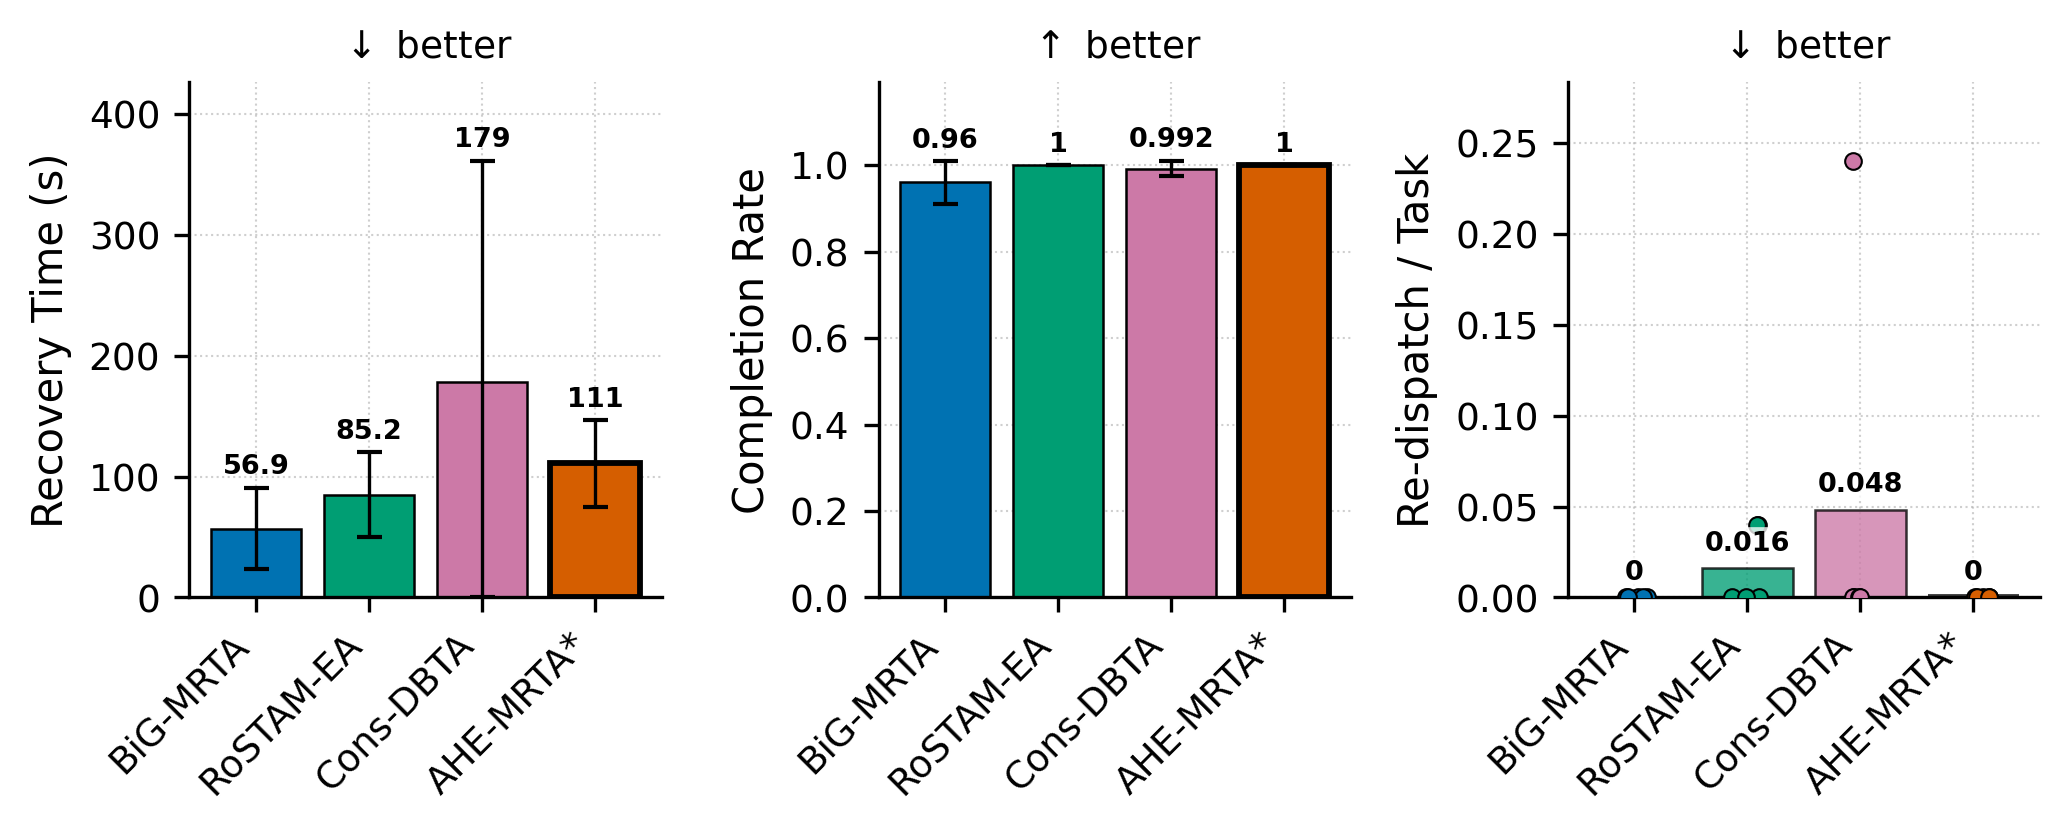
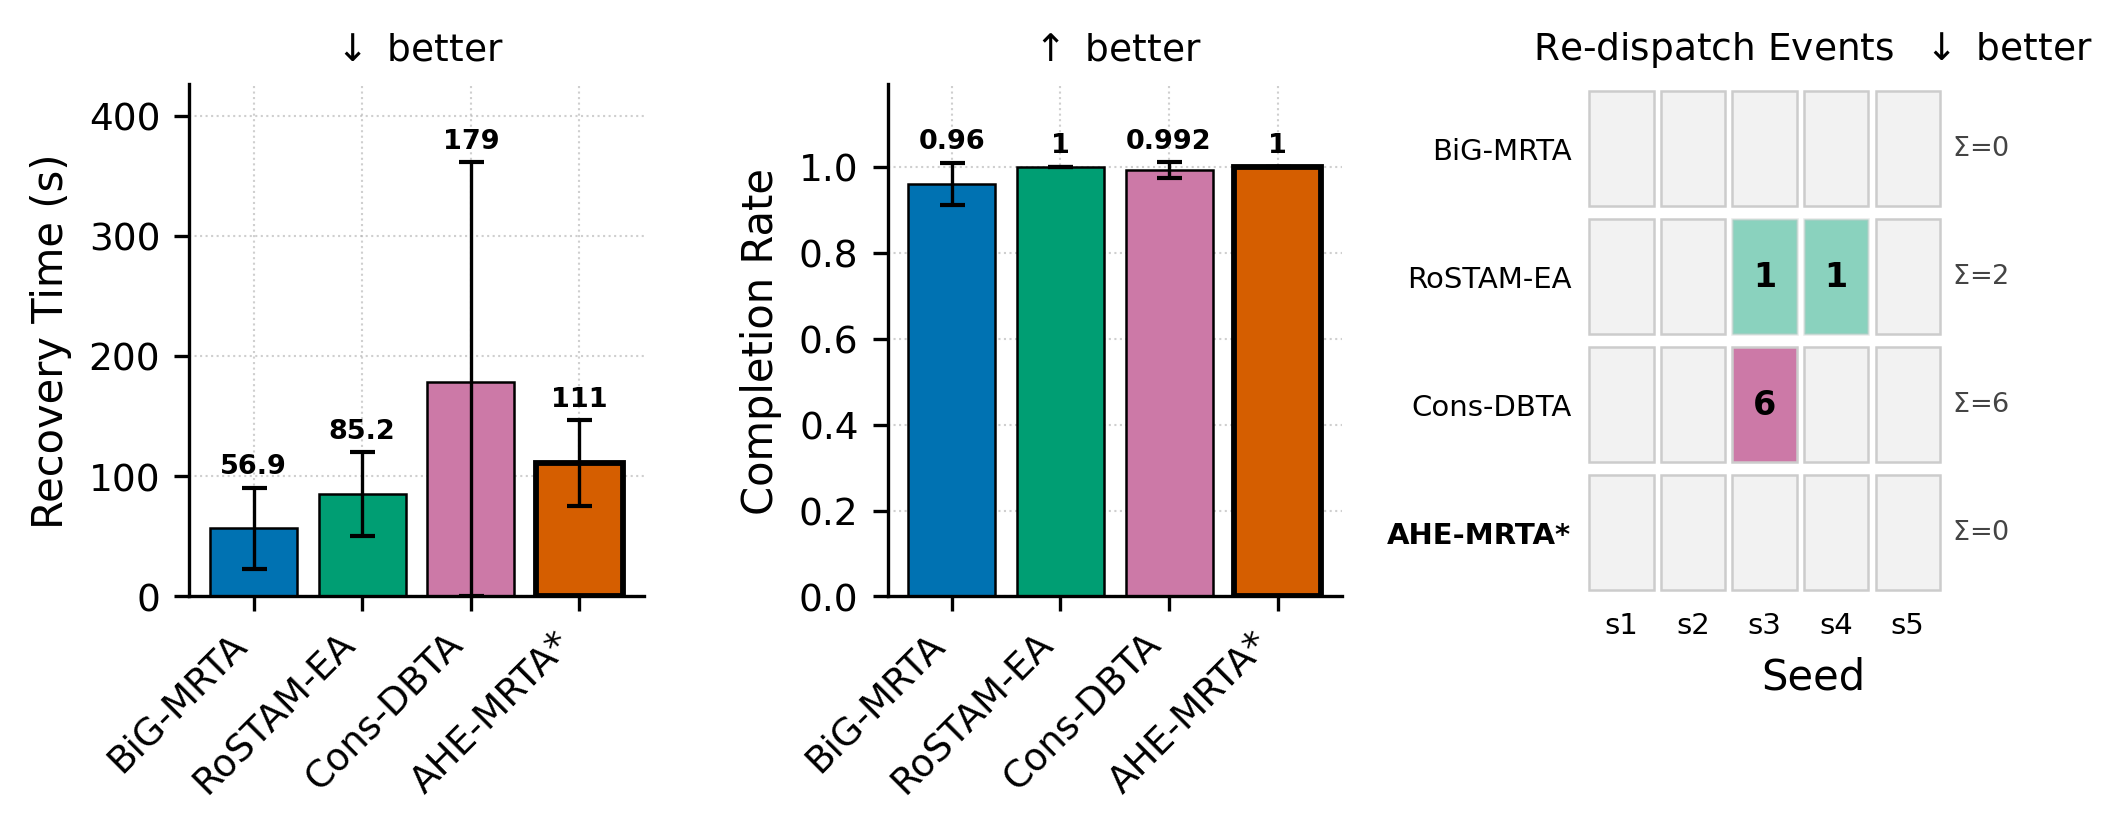
Paper: Fig 10c as seed x method re-dispatch event matrix (EN+TR)
Final encoding, chosen from a rendered D/E/F comparison: each cell is
one run, zero-event runs stay light gray, nonzero runs are filled in
the method colour and annotated with the integer count, and Sigma gives
the row total. The matrix attributes every event to the seed that
produced it - RoSTAM-EA's two events sit in s3/s4 and all six
Consensus-DBTA events in s3 - which is the information any aggregate
encoding of this panel had to carry in annotations. _bar_points_panel
becomes _event_matrix_panel; captions rewritten in both languages;
PDFs recompiled clean (EN 22 pp, TR 23 pp).

diff --git a/paper/main.tex b/paper/main.tex
@@ -205,53 +205,67 @@ in-flight safety lock used in the execution stack. Failed or navigation-stuck
 robots cannot receive a new task; their unfinished tasks become eligible for
 redispatch.
 
-\textbf{Arrival prediction and admissibility.} For an eligible pair
+\textbf{Arrival prediction and admissibility.} For a candidate pair
 $(r,\tau)$, let $\hat a_{r\tau}^k$ be the predicted completion-arrival time
 obtained by traversing $q_r^k$ and then travelling to $p_\tau$. The predictor
 uses the same route metric as the active configuration: F45 uses its core
 distance estimate, while F58 uses the cached geodesic ETA in
 Eq.~\eqref{eq:f58-eta}. A pair with no route is infeasible. For a finite
-deadline, the hard admission gate is
+deadline, the admission rule is
 \begin{equation}
-  \hat a_{r\tau}^k>d_\tau+\Delta_s^k
+  \hat a_{r\tau}^k>d_\tau+s_{r\tau}^k
   \quad\Longrightarrow\quad (r,\tau)\notin\mathcal{F}_k ,
   \label{eq:admission-gate}
 \end{equation}
-where $\Delta_s^k$ is the adaptive slack and $\mathcal{F}_k$ is the set of
-eligible robot--task pairs. Thus, a task is not assigned to a robot that is
-known to be incompatible, unavailable, unreachable, or predictably late beyond
-the permitted slack.
+where $\mathcal{F}_k$ is the eligible-pair set. The pair-specific allowance
+$s_{r\tau}^k$ is zero for new tasks in the nominal configuration. A bounded
+positive allowance is available only to old rescue tasks and can be widened
+in failure mode. Thus, the allocator rejects a pair that is incompatible,
+unavailable, unreachable, or later than the allowance for that task state.
 
-\textbf{Event-level surrogate.} AHE-MRTA does not claim to solve a global
-multi-objective MRTA optimum. At event $t_k$, the selected paradigm instead
-solves the feasibility-masked surrogate
+\textbf{Event-level surrogate.} Minimizing non-negative cost over
+$\mathcal X_k$ alone would admit the trivial all-zero assignment because the
+ownership constraints are upper bounds. The implementation therefore uses a
+cardinality-first rule. After masking infeasible pairs and preserving locked
+incumbents, define
 \begin{equation}
-  x^k\in\arg\min_{x\in\mathcal{X}_k}
+  \mathcal X_k^\star=\arg\max_{x\in\mathcal X_k}
+  \sum_{r\in\mathcal R}\sum_{\tau\in\mathcal T_k}x_{r\tau}^k.
+  \label{eq:max-cardinality}
+\end{equation}
+Among these maximum-cardinality event plans, the selected paradigm minimizes
+its shaped cost:
+\begin{equation}
+  x^k\in\arg\min_{x\in\mathcal{X}_k^\star}
         \sum_{r\in\mathcal{R}}\sum_{\tau\in\mathcal{T}_k}
         C_{r\tau}^k x_{r\tau}^k ,
   \qquad C_{r\tau}^k=\infty\ \text{if }(r,\tau)\notin\mathcal{F}_k .
   \label{eq:event-surrogate}
 \end{equation}
-The queue order is then set by the active paradigm (Section~\ref{sec:paradigms}).
-This formulation makes the decision rule explicit: it is an online,
-event-level assignment surrogate, not an offline guarantee on the full run.
+Repeated LSA passes implement this lexicographic rule; tasks for which no
+feasible capacity remains stay open for a later event. The active paradigm
+then sets queue order (Section~\ref{sec:paradigms}). This is an online
+event-level surrogate, not an offline optimum for the complete mission.
 
-\textbf{Cost and assignment stability.} For feasible pairs, the cost combines
-estimated arrival time, urgency, priority, queue load, failure risk, navigation state,
-and a non-negative reassignment penalty:
+\textbf{Cost and assignment stability.} The implementation evaluates seven
+normalized features: arrival time $A_{r\tau}^k$, priority penalty
+$P_\tau=(4-\pi_\tau)/3$, battery risk $B_r^k$, relative load $L_r^k$,
+failure risk $F_r^k$, deadline urgency $U_\tau^k$, and navigation/recovery
+risk $R_r^k$. For a feasible pair, the common cost is
 \begin{equation}
   C_{r\tau}^k =
-  w_d\hat a_{r\tau}^k + w_u U_\tau^k + w_\pi\pi_\tau^{-1}
-  + w_lL_r^k+w_fF_r^k+w_rR_r^k+\rho_{r\tau}^k .
+  w_dA_{r\tau}^k+w_pP_\tau+w_bB_r^k+w_lL_r^k
+  +w_fF_r^k+w_tU_\tau^k+w_rR_r^k+\Psi_{r\tau}^k .
   \label{eq:cost}
 \end{equation}
-Here $U_\tau^k$ is urgency, $L_r^k$ is relative queue load, $F_r^k$ is the
-method's normalized failure-risk signal, and $R_r^k$ is the navigation-stuck indicator.
-The active EDPS paradigm selects $w$ (Section~\ref{sec:method}). For a
-feasibly queued incumbent task, urgency stays at its base value. Therefore,
-deadline growth pulls unassigned or at-risk tasks forward without repeatedly
-moving a task that is already predicted to finish on time. The penalty
-$\rho_{r\tau}^k$ provides an additional brake on redispatch churn.
+Here $A_{r\tau}^k=\min(1,\hat a_{r\tau}^k/A_{\max})$ and the other base
+features are dimensionless. The correction $\Psi_{r\tau}^k$ collects the
+deadline and critical-battery penalties, deadline-capability and bid bonuses,
+incumbent sticky bonus, reassignment penalty, and capacity penalty. This form
+avoids adding seconds directly to normalized features. EDPS supplies $w$;
+the active paradigm can also shape task order and eligibility. A safe
+incumbent retains base urgency, whereas an unassigned or at-risk task receives
+nonlinear urgency growth.
 
 \textbf{Run-level outcomes and timing contract.} The run-level objective is
 to maximize completion and minimize deadline violations without hiding
@@ -262,7 +276,8 @@ be the tasks completed by $T_{\max}$. Formally,
   \frac{|\mathcal{T}^{\rm done}|}{|\mathcal{T}^{\rm req}|},
   \qquad
   \min\ \mathrm{DVR}=
-  \frac{|\{\tau:d_\tau<\infty\ \wedge+  (t_\tau^{\rm c}>d_\tau\ \vee\ \tau\notin\mathcal{T}^{\rm done})\}|}
+  \frac{|\{\tau:d_\tau<\infty\ \wedge
+  (t_\tau^{\rm c}>d_\tau\ \vee\ \tau\notin\mathcal{T}^{\rm done})\}|}
   {\max\!\bigl(1,|\{\tau:d_\tau<\infty\}|\bigr)}.
   \label{eq:primary-outcomes}
 \end{equation}
@@ -1235,16 +1250,17 @@ scales.
   \caption{Failure-recovery behaviour under \textit{robot\_failure} at
   the primary 5-robot / 25-task scale ($n{=}5$ seeds): recovery time and
   completion rate (mean\,$\pm$\,std bars, whiskers clipped at zero) and
-  re-dispatch rate as a mean bar overlaid with each seed's raw value.
-  In the right panel the per-seed points replace the std whisker: 17 of
-  the 20 runs have exactly zero re-dispatches, and all six
-  Consensus-DBTA events fall in a single seed (execution preemptions
-  are zero for every method and are omitted). Recovery times are
-  statistically indistinguishable across methods ($p{>}0.3$);
-  re-dispatches arise only in two baselines, and AHE-MRTA converts its
-  comparable recovery time into the highest completion rate of the
-  reactive methods by escalating to the orphan-rescue paradigm within
-  one ecosystem update cycle (${\leq}2$~s).}
+  a seed$\times$method matrix of re-dispatch events, in which each cell
+  is one run, filled cells carry the event count, and $\Sigma$ gives the
+  row total. The matrix attributes every event to the seed that produced
+  it: 17 of the 20 runs have zero re-dispatches, RoSTAM-EA's two events
+  come from two different seeds, and all six Consensus-DBTA events fall
+  in a single seed (execution preemptions are zero for every method and
+  are omitted). Recovery times are statistically indistinguishable
+  across methods ($p{>}0.3$); AHE-MRTA converts its comparable recovery
+  time into the highest completion rate of the reactive methods by
+  escalating to the orphan-rescue paradigm within one ecosystem update
+  cycle (${\leq}2$~s).}
   \label{fig:recovery}
 \end{figure}
 

diff --git a/scripts/plot_results.py b/scripts/plot_results.py
@@ -171,44 +171,52 @@ def _bar_panel(ax, df, methods, metric, ylabel, higher_better: bool = True,
     return bars
 
 
-def _bar_points_panel(ax, df, methods, metric, ylabel,
-                      higher_better: bool = False):
-    """Mean bar overlaid with every run's raw value; proposed emphasised.
+def _event_matrix_panel(ax, df, methods, metric,
+                        higher_better: bool = False):
+    """Seed×method event matrix for rare discrete events.
 
-    Used where a std whisker would mislead (most runs exactly zero, a
-    single seed carrying the whole mean, ±std dipping below a
-    nonnegative metric's floor): the overlaid per-seed points show the
-    spread directly while keeping the bar aesthetic of the sibling
-    panels.
+    Each cell is one run: zero-event runs stay light gray, nonzero runs
+    are filled in the method colour (intensity scaled by count) and
+    annotated with the integer count; Σ gives the row total. This
+    attributes every event to the seed that produced it---exactly the
+    information a mean±std bar destroys when a single seed carries the
+    whole mean.
     """
     valid = [m for m in methods if m in df["strategy"].unique()]
-    colors = [METHOD_PALETTE.get(m, "#999999") for m in valid]
-    data = [df[df["strategy"] == m][metric].dropna().values for m in valid]
-    means = [float(np.mean(v)) if len(v) else 0.0 for v in data]
-
-    x = np.arange(len(valid))
-    edge_w = [1.4 if m == PROPOSED else 0.6 for m in valid]
-    bars = ax.bar(x, means, color=colors, edgecolor="black", alpha=0.78)
-    for b, w in zip(bars, edge_w):
-        b.set_linewidth(w)
-    rng = np.random.default_rng(7)
-    for i, (vals, c) in enumerate(zip(data, colors)):
-        jitter = rng.uniform(-0.14, 0.14, size=len(vals))
-        ax.scatter(i + jitter, vals, s=16, color=c, edgecolor="black",
-                   linewidth=0.5, zorder=3)
-    for i, mn in enumerate(means):
-        ax.annotate(f"{mn:.3g}", xy=(i, mn), xytext=(0, 3),
-                    textcoords="offset points", ha="center", va="bottom",
-                    fontsize=6.5, fontweight="bold", zorder=5,
-                    bbox=dict(boxstyle="round,pad=0.1", fc="white",
-                              ec="none", alpha=0.78))
-    ax.margins(y=0.18)
-    ax.set_xticks(x)
-    ax.set_xticklabels([METHOD_LABELS.get(m, m) for m in valid],
-                       rotation=45, ha="right")
-    ax.set_ylabel(ylabel)
+    seeds = sorted(df["seed"].unique())
+    max_c = max(1, int(df[metric].max()))
+    for yi, m in enumerate(valid):
+        sub = df[df["strategy"] == m]
+        for xi, s in enumerate(seeds):
+            vals = sub.loc[sub["seed"] == s, metric]
+            c = int(vals.iloc[0]) if len(vals) else 0
+            face = "#f2f2f2" if c == 0 else METHOD_PALETTE.get(m, "#999999")
+            alpha = 1.0 if c == 0 else 0.35 + 0.65 * c / max_c
+            ax.add_patch(plt.Rectangle((xi + 0.05, yi + 0.05), 0.9, 0.9,
+                                       facecolor=face, alpha=alpha,
+                                       edgecolor="#cccccc", linewidth=0.6))
+            if c:
+                ax.text(xi + 0.5, yi + 0.5, str(c), ha="center",
+                        va="center", fontsize=8, fontweight="bold")
+        tot = int(sub[metric].sum())
+        ax.text(len(seeds) + 0.12, yi + 0.5, f"$\\Sigma$={tot}",
+                ha="left", va="center", fontsize=6.5, color="#444444")
+    ax.set_xlim(0, len(seeds) + 1.35)
+    ax.set_ylim(len(valid), 0)
+    ax.set_xticks([i + 0.5 for i in range(len(seeds))])
+    ax.set_xticklabels([f"s{int(s)}" for s in seeds], fontsize=7)
+    ax.set_yticks([i + 0.5 for i in range(len(valid))])
+    ax.set_yticklabels([METHOD_LABELS.get(m, m) for m in valid], fontsize=7)
+    for lbl, m in zip(ax.get_yticklabels(), valid):
+        if m == PROPOSED:
+            lbl.set_fontweight("bold")
+    ax.set_xlabel("Seed")
+    ax.tick_params(length=0)
+    ax.grid(False)
+    for sp in ax.spines.values():
+        sp.set_visible(False)
     arrow = "$\\uparrow$" if higher_better else "$\\downarrow$"
-    ax.set_title(f"{arrow} better", fontsize=9)
+    ax.set_title(f"Re-dispatch Events  {arrow} better", fontsize=9)
 
 
 def _box_panel(ax, df, methods, metric, ylabel, log_y: bool = False):
@@ -367,9 +375,9 @@ def plot_failure_recovery(df_summary: Optional[pd.DataFrame],
         # show the corrected re-dispatch rate instead (Sec. discussion).
         # Re-dispatch is a rare discrete event (17 of 20 runs are exactly
         # zero; one seed carries all of Consensus-DBTA's events), so the
-        # per-seed points replace the std whisker.
-        _bar_points_panel(axes[2], rf, methods, "redispatch_per_task",
-                          "Re-dispatch / Task")
+        # seed×method matrix attributes each event to its seed instead of
+        # averaging it away.
+        _event_matrix_panel(axes[2], rf, methods, "task_redispatch")
 
     fig.tight_layout()
     out_path = out_dir / "failure_recovery.png"

diff --git a/paper/main_tr.tex b/paper/main_tr.tex
@@ -1276,16 +1276,17 @@ iki ölçekte gerçek-zaman bütçesinin içinde.
   \caption{Birincil 5-robot / 25-görev ölçeğinde \textit{robot\_failure} altında
   arıza-toparlanma davranışı ($n{=}5$ tohum): toparlanma süresi ile
   tamamlama oranı (ortalama $\pm$ std çubukları; bıyıklar sıfırda
-  kırpılmıştır) ve her tohumun ham değeri bindirilmiş ortalama çubuk
-  olarak yeniden-gönderim oranı. Sağ panelde std bıyığının yerini
-  tohum-başına noktalar alır: 20 koşunun 17'sinde yeniden-gönderim tam
-  sıfırdır ve Consensus-DBTA'nın altı olayının tümü tek bir tohumdadır
-  (yürütme kesintileri tüm yöntemlerde sıfır olduğundan gösterilmedi).
-  Toparlanma süreleri yöntemler arasında istatistiksel olarak ayırt
-  edilemez ($p{>}0.3$); yeniden-gönderim yalnız iki temelde görülür ve
-  AHE-MRTA, karşılaştırılabilir toparlanma süresini bir ekosistem
-  güncelleme çevrimi içinde (${\leq}2$~s) yetim-kurtarma paradigmasına
-  geçerek reaktif yöntemlerin en yüksek tamamlama oranına çevirir.}
+  kırpılmıştır) ve tohum$\times$yöntem yeniden-gönderim olay matrisi ---
+  her hücre bir koşudur, dolu hücreler olay sayısını taşır ve $\Sigma$
+  satır toplamını verir. Matris her olayı üreten tohuma bağlar: 20
+  koşunun 17'sinde yeniden-gönderim sıfırdır, RoSTAM-EA'nın iki olayı
+  iki ayrı tohumdan gelir ve Consensus-DBTA'nın altı olayının tümü tek
+  bir tohumdadır (yürütme kesintileri tüm yöntemlerde sıfır olduğundan
+  gösterilmedi). Toparlanma süreleri yöntemler arasında istatistiksel
+  olarak ayırt edilemez ($p{>}0.3$); AHE-MRTA, karşılaştırılabilir
+  toparlanma süresini bir ekosistem güncelleme çevrimi içinde
+  (${\leq}2$~s) yetim-kurtarma paradigmasına geçerek reaktif yöntemlerin
+  en yüksek tamamlama oranına çevirir.}
   \label{fig:recovery}
 \end{figure}
 